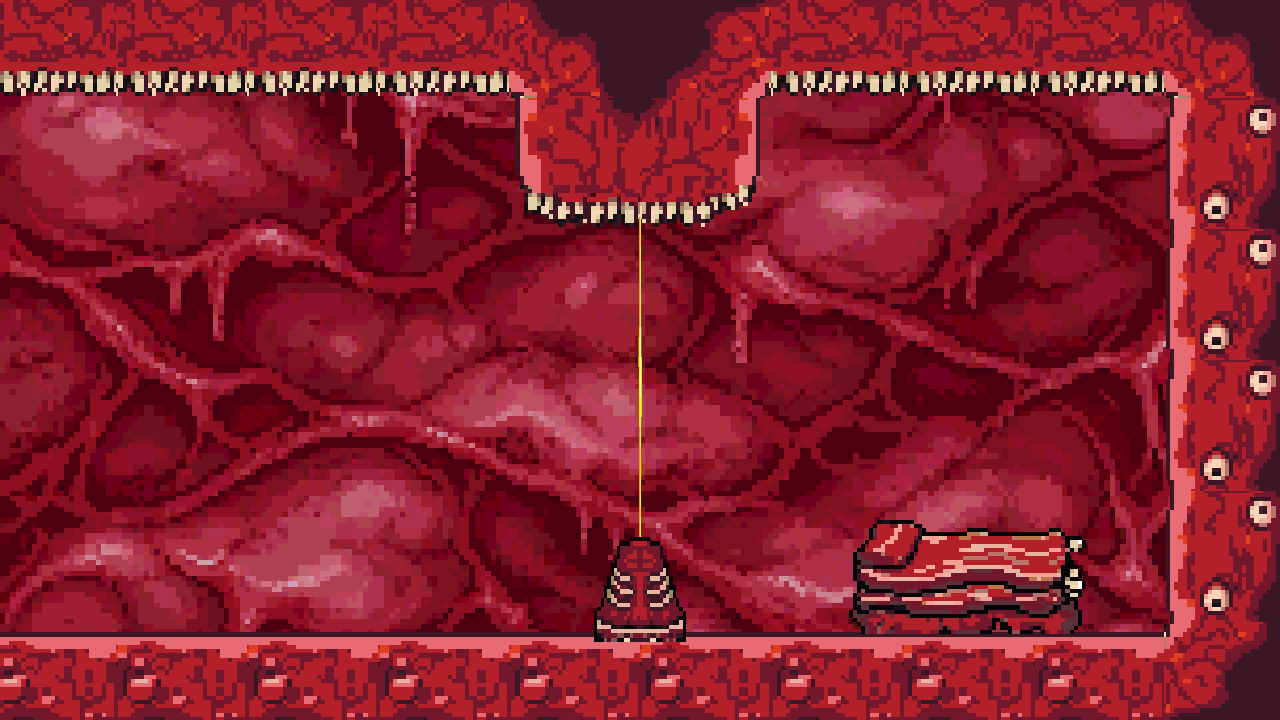
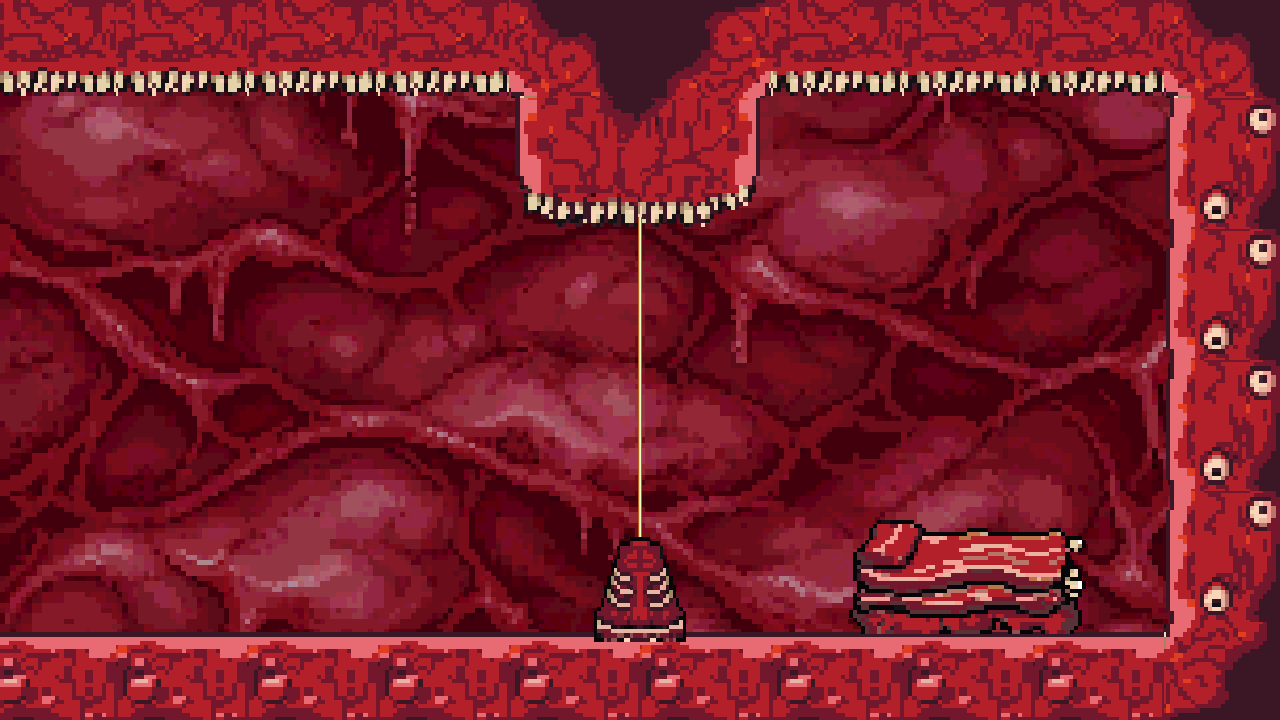
Straighten laser art and calibrate beam collision

diff --git a/Assets/SleepwalkingVisual/Scripts/DreamTheme.cs b/Assets/SleepwalkingVisual/Scripts/DreamTheme.cs
@@ -33,6 +33,7 @@ namespace Sleepwalking.Visual
         readonly List<Renderer> tileBackings = new List<Renderer>();
         readonly List<Renderer> bedBackings = new List<Renderer>();
         readonly List<SpriteRenderer> bedSprites = new List<SpriteRenderer>();
+        Sprite laserBeamCore;
         public void FrameBackdrop(Camera camera)
         {
             if (camera == null) return;
@@ -321,7 +322,7 @@ namespace Sleepwalking.Visual
                 float laserBaseScale = 32f / (32f - laserBaseEmptyPixels) *
                     (1f + laserBaseSeat / laserBaseHeight);
                 float laserBeamPixels = Id == DreamThemeId.Meat ? 11f :
-                    Id == DreamThemeId.PostApocalypse ? 14f : 10f;
+                    Id == DreamThemeId.PostApocalypse ? 12f : 10f;
                 // Видимая кромка облачных потолков второго лазера выше физической грани блока.
                 float laserBeamReach = Id == DreamThemeId.Heaven &&
                     feature.FeatureId == "L04_SecondLaser" ? 13f :
@@ -342,9 +343,10 @@ namespace Sleepwalking.Visual
                     feature.Kind == LevelFeatureKind.LaserBase ?
                     new Vector3(1f, laserBaseScale, 1f) :
                     feature.Kind == LevelFeatureKind.LaserBeam ?
-                    new Vector3(1f + laserBeamExtension, 32f / laserBeamPixels, 1f) : Vector3.one;
+                    new Vector3(32f * (1f + laserBeamExtension), 32f / laserBeamPixels, 1f) : Vector3.one;
                 SpriteRenderer art = node.GetComponent<SpriteRenderer>();
-                art.sprite = sprite;
+                art.sprite = feature.Kind == LevelFeatureKind.LaserBeam ? GetLaserBeamCore() : sprite;
+                art.drawMode = SpriteDrawMode.Simple;
                 art.color = Color.white;
                 art.sortingOrder = feature.Kind == LevelFeatureKind.Saw ? -1 : 10;
 
@@ -356,6 +358,28 @@ namespace Sleepwalking.Visual
                     feature.Kind == LevelFeatureKind.LaserBase));
             }
             UpdateHazardArt();
+        }
+
+        Sprite GetLaserBeamCore()
+        {
+            if (laserBeamCore != null) return laserBeamCore;
+            // Целый 32px кадр при растяжении увеличивает изгибы; одна колонка даёт ровный луч.
+            int column = Id == DreamThemeId.Meat ? 18 :
+                Id == DreamThemeId.PostApocalypse ? 9 :
+                Id == DreamThemeId.DeepWater ? 12 : 14;
+            Rect source = LaserBeamArt.textureRect;
+            Rect core = new Rect(source.x + column, source.y, 1f, source.height);
+            laserBeamCore = Sprite.Create(LaserBeamArt.texture, core, new Vector2(.5f, .5f), 32f,
+                0, SpriteMeshType.FullRect);
+            laserBeamCore.name = LaserBeamArt.name + "_Core";
+            return laserBeamCore;
+        }
+
+        void OnDestroy()
+        {
+            if (laserBeamCore == null) return;
+            if (Application.isPlaying) Destroy(laserBeamCore);
+            else DestroyImmediate(laserBeamCore);
         }
 
         void ApplyButtonArt(Transform levelRoot)

diff --git a/Assets/SleepwalkingTests/PlayMode/SleepwalkingLaserIntegrationTests.cs b/Assets/SleepwalkingTests/PlayMode/SleepwalkingLaserIntegrationTests.cs
@@ -103,7 +103,7 @@ namespace Sleepwalking.Tests.PlayMode
                     Mathf.Max(1, camera.pixelHeight);
                 float beamPixels = beam.bounds.size.x * pixelHeight / (camera.orthographicSize * 2f);
                 Assert.That(beamPixels, Is.InRange(3f, 4f), item.Id);
-                Assert.That(beam.enabled && laserBase.enabled && beamArt.enabled && baseArt.enabled,
+                Assert.That(beam.enabled && !laserBase.enabled && beamArt.enabled && baseArt.enabled,
                     Is.True, item.Id + " starts active");
                 Record(trace, item, "active", beam, laserBase, beamArt, baseArt, dying, beamPixels);
 
@@ -116,7 +116,7 @@ namespace Sleepwalking.Tests.PlayMode
                 Assert.That((bool)dying.GetValue(game), Is.False, item.Id + " retry did not finish");
                 Assert.That((bool)inDream.GetValue(game), Is.True);
                 Assert.That((int)completed.GetValue(game), Is.EqualTo(item.Level - 1));
-                Assert.That(beam.enabled && laserBase.enabled, Is.True, item.Id + " retry reset");
+                Assert.That(beam.enabled && !laserBase.enabled, Is.True, item.Id + " retry reset");
 
                 Vector2 buttonPosition = new Vector2(button.bounds.center.x,
                     button.bounds.min.y + shape.bounds.extents.y + .01f * Unit);
@@ -128,7 +128,7 @@ namespace Sleepwalking.Tests.PlayMode
                 for (int q = 0; q < 30; q++)
                 {
                     yield return new WaitForFixedUpdate();
-                    if (!beam.enabled && laserBase.enabled) { disabled = true; break; }
+                    if (!beam.enabled && !laserBase.enabled) { disabled = true; break; }
                 }
                 Assert.That(disabled, Is.True, item.Button + " did not disable the beam");
                 yield return null;
@@ -148,7 +148,7 @@ namespace Sleepwalking.Tests.PlayMode
                 deadline = Time.realtimeSinceStartup + 10f;
                 while (!beam.enabled && Time.realtimeSinceStartup < deadline)
                     yield return null;
-                Assert.That(beam.enabled && laserBase.enabled, Is.True,
+                Assert.That(beam.enabled && !laserBase.enabled, Is.True,
                     item.Id + " did not restore after button timer");
                 yield return null;
                 Assert.That(beamArt.enabled && baseArt.enabled, Is.True,

diff --git a/Assets/SleepwalkingVisual/Editor/LaserArtCapture.cs b/Assets/SleepwalkingVisual/Editor/LaserArtCapture.cs
@@ -66,10 +66,12 @@ namespace Sleepwalking.Visual.Editor
             if (baseArt == null || beamArt == null)
                 throw new InvalidOperationException("Laser art missing: " + featureId + " " + name);
             string basePath = AssetDatabase.GetAssetPath(baseArt.sprite);
-            string beamPath = AssetDatabase.GetAssetPath(beamArt.sprite);
+            string beamPath = AssetDatabase.GetAssetPath(theme.LaserBeamArt);
             if (!basePath.EndsWith("/T_Lasers.png", StringComparison.Ordinal) ||
                 !beamPath.EndsWith("_environment.png", StringComparison.Ordinal) ||
-                !beamArt.sprite.name.EndsWith("_LaserBeam", StringComparison.Ordinal))
+                !beamArt.sprite.name.EndsWith("_LaserBeam_Core", StringComparison.Ordinal) ||
+                beamArt.sprite.texture != theme.LaserBeamArt.texture ||
+                beamArt.sprite.textureRect.width != 1f)
                 throw new InvalidOperationException("Wrong laser sprites: " + name + " " + basePath + " " + beamPath);
 
             BoxCollider2D beamShape = laserBeam.GetComponent<BoxCollider2D>();

diff --git a/Assets/SleepwalkingGameplay/SleepwalkingGame.cs b/Assets/SleepwalkingGameplay/SleepwalkingGame.cs
@@ -303,6 +303,7 @@ namespace Sleepwalking
             CreateLevel();
             inDream = true;
             FrameDreamCamera();
+            UpdateBeamWidths();
             cameraVelocity = Vector3.zero;
             GameCamera.transform.rotation = Quaternion.identity;
             activeTheme?.FrameBackdrop(GameCamera);
@@ -688,10 +689,9 @@ namespace Sleepwalking
 
         float BeamWidth()
         {
-            // Сохраняем прежнюю толщину луча в мире после отключения пикселизации камеры.
-            float aspect = DreamCameraAspect();
-            int referenceHeight = Mathf.Max(180, Mathf.CeilToInt(320 / aspect));
-            return 3.5f * GameCamera.orthographicSize * 2f / referenceHeight;
+            int pixelHeight = GameCamera.targetTexture != null ? GameCamera.targetTexture.height :
+                Mathf.Max(1, GameCamera.pixelHeight);
+            return 3.5f * GameCamera.orthographicSize * 2f / pixelHeight;
         }
 
         float BeamLocalWidth(Transform beam)

diff --git a/Assets/SleepwalkingTests/PlayMode/SleepwalkingMechanismPhysicsTests.cs b/Assets/SleepwalkingTests/PlayMode/SleepwalkingMechanismPhysicsTests.cs
@@ -85,7 +85,7 @@ namespace Sleepwalking.Tests.PlayMode
         }
 
         [UnityTest]
-        public IEnumerator BeamWidthPreservesReferenceThicknessWithoutPixelFilter()
+        public IEnumerator BeamWidthKeepsScreenThicknessWithoutPixelFilter()
         {
             yield return LoadScene();
             Camera camera = (Camera)gameType.GetField("GameCamera").GetValue(game);
@@ -95,8 +95,7 @@ namespace Sleepwalking.Tests.PlayMode
 
             Assert.That(camera.targetTexture, Is.Null);
             float width = (float)beamWidth.Invoke(game, null);
-            int referenceHeight = Mathf.Max(180, Mathf.CeilToInt(320f * Screen.height / Screen.width));
-            float pixels = width * referenceHeight / (camera.orthographicSize * 2f);
+            float pixels = width * camera.pixelHeight / (camera.orthographicSize * 2f);
             Assert.That(pixels, Is.InRange(3f, 4f));
             LogAssert.NoUnexpectedReceived();
         }

diff --git a/Docs/Integration/Visual.md b/Docs/Integration/Visual.md
@@ -20,7 +20,7 @@ The window is grouped under `Moon Window` and offset left by 0.9 world units, le
 
 - `Assets/SleepwalkingVisual/Prefabs/Themes/` contains four style prefabs: Meat, PostApocalypse, DeepWater and Heaven. Meat uses the supplied `Textures/Source/BloodBgnew.png` backdrop, and PostApocalypse uses `Textures/Source/WarBG.png`; DeepWater and Heaven retain their generated backdrops. Each style keeps its original TL tileset material and temporary neutral Dreamer silhouette. The old flat prefabs are preserved in `Prefabs/Themes/Flat/`; `MeatTexturePilot.prefab` remains a separate rejected experiment.
 - The two supplied 1920×1080 PNGs remain byte-for-byte copies of the user files. Their backdrop materials use point filtering without mipmaps or compression. During dreams, `DreamTheme.FrameBackdrop` centres one image on the current camera position every frame and scales it to cover the viewport in 16:9 and 4:3 without changing its aspect ratio. The extra image area is cropped by the camera; the repeated quad is hidden. All four theme backdrops have a slightly darker tint. `Docs/QA/laser-follow-*` captures L04/L07 in 16:9 and 4:3; `Docs/QA/supplied-backdrop-meat.png` and `supplied-backdrop-war.png` are older L01 captures.
-- The supplied `Textures/Environment/TL_{Meat,PostApoc,DarkWater,Heaven}_environment.png` files are 128×32 atlases. Their four original 32×32 cells, left to right, are spikes, old laser base, laser beam and saw. Laser bases now come from the separate `Textures/Environment/T_Lasers.png` atlas in order Meat, DeepWater, Heaven, PostApocalypse; each theme keeps the **third cell** of its original environment atlas for the beam. `DarkWater` names the `DeepWater` game style's original atlas. `DreamTheme.ApplyTo` places these sprites on the authored trap objects; the legacy meshes are hidden, while trigger shapes, button timers and saw movement remain gameplay-owned. The laser beam sprite is rotated vertically and scales with the live beam width. Art offsets seat the cone on the visible floor and connect the beam to the upper platform; the physical beam stays 3.50 screen pixels wide at the checked 1280×720 framing. A disabled trap hides its sprite. Current comparison frames and measurements are in `Docs/QA/VisualLogs/Lasers/` and `LaserCaptureLongLevelsFramed.log`; the older `Docs/QA/environment-traps-{meat,postapoc,darkwater,heaven}.png` and `environment-traps-results.xml` predate the new base atlas.
+- The supplied `Textures/Environment/TL_{Meat,PostApoc,DarkWater,Heaven}_environment.png` files are 128×32 atlases. Their four original 32×32 cells, left to right, are spikes, old laser base, laser beam and saw. Laser bases come from the separate `Textures/Environment/T_Lasers.png` atlas in order Meat, DeepWater, Heaven, PostApocalypse. Each theme takes a one-pixel cross-section from the third cell of its original atlas for a straight beam: stretching the full 32-pixel pattern made large kinks, while tiling it made horizontal stripes. `DarkWater` names the `DeepWater` game style's original atlas. `DreamTheme.ApplyTo` places these sprites on the authored trap objects; the legacy meshes are hidden, while trigger shapes, button timers and saw movement remain gameplay-owned. The beam cross-section is rotated vertically and scales with the live collider width. Art offsets seat the cone on the visible floor and connect the beam to the upper platform; `SleepwalkingGame.BeamWidth` keeps the collider 3.5 actual screen pixels wide during direct rendering. A disabled trap hides its beam sprite while its non-colliding emitter remains visible. Current 16 comparison frames are in `Docs/QA/VisualLogs/Lasers/`; `Docs/QA/LaserCoreCapture.log` records their Editor capture. The older `Docs/QA/environment-traps-{meat,postapoc,darkwater,heaven}.png` and `environment-traps-results.xml` predate the new base atlas.
 - `Textures/Environment/TL_Button.png` is the supplied 64×32 button atlas: the left 32×32 cell is raised and the right cell is pressed. All four dream themes use the same point-filtered, uncompressed atlas. `DreamTheme` scales the sprite in level-cell units, replaces the old button mesh and light, and keeps the authored trigger and linked hazard action intact. `SleepwalkingMechanism` shows the pressed frame briefly after activation, then returns to the raised frame; retry resets that state. `Docs/QA/button-art-follow-results.xml` verifies both visible states in PlayMode.
 - `Textures/Tilesets/TL_{Meat,PostApoc,DeepWater,Heaven}_Dream.png` are byte-identical copies of the supplied production tilesets in `Docs/UI/References/`. They are imported as 3×6 cells of 32×32 pixels, with point filtering and no texture compression. `DreamTheme.ApplyTo(geometryRoot)` adds no-collider tile meshes under level objects marked `SleepwalkingTileSurface` while retaining the authored BoxCollider2D, route, traps and other readability cues. The obsolete white `WallGrip_Cue` was removed from the level generator and prefab; the visual layer also hides it if an older prefab still contains it. Timed and moving platform meshes and cue renderers stay hidden through state changes, so their rectangular backings cannot show behind the themed tiles. The theme also applies its materials to the existing geometry renderers.
 - `DreamPlayerAppearance` replaces the gameplay square's visible renderer with a no-collider child sprite after the `Dreamer` appears. This is a replaceable silhouette, not an approved final character design. The gameplay actor and its collider remain owned by Game Mechanics.
